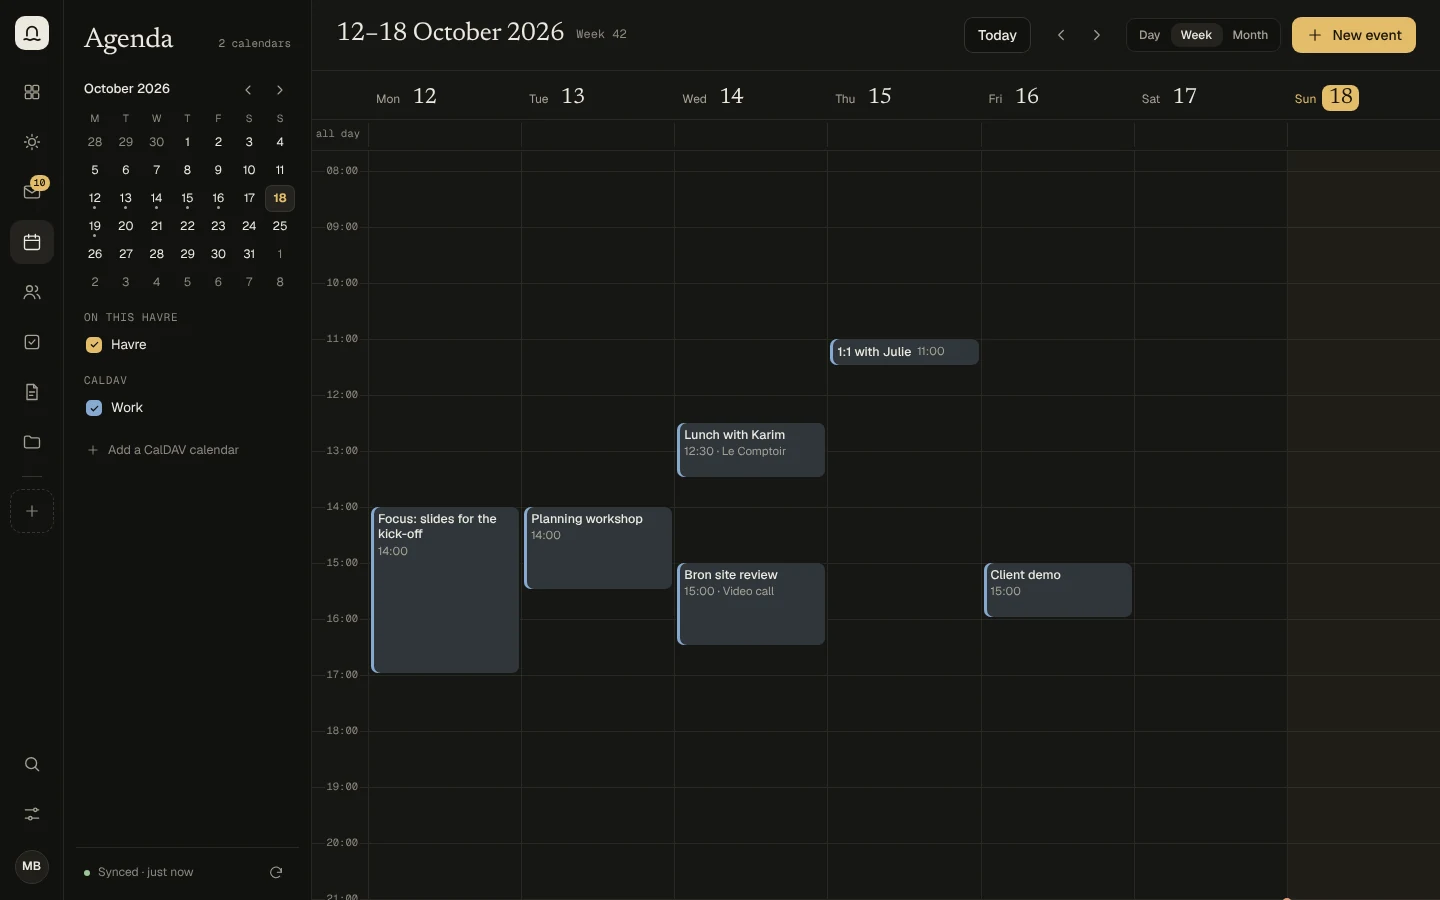
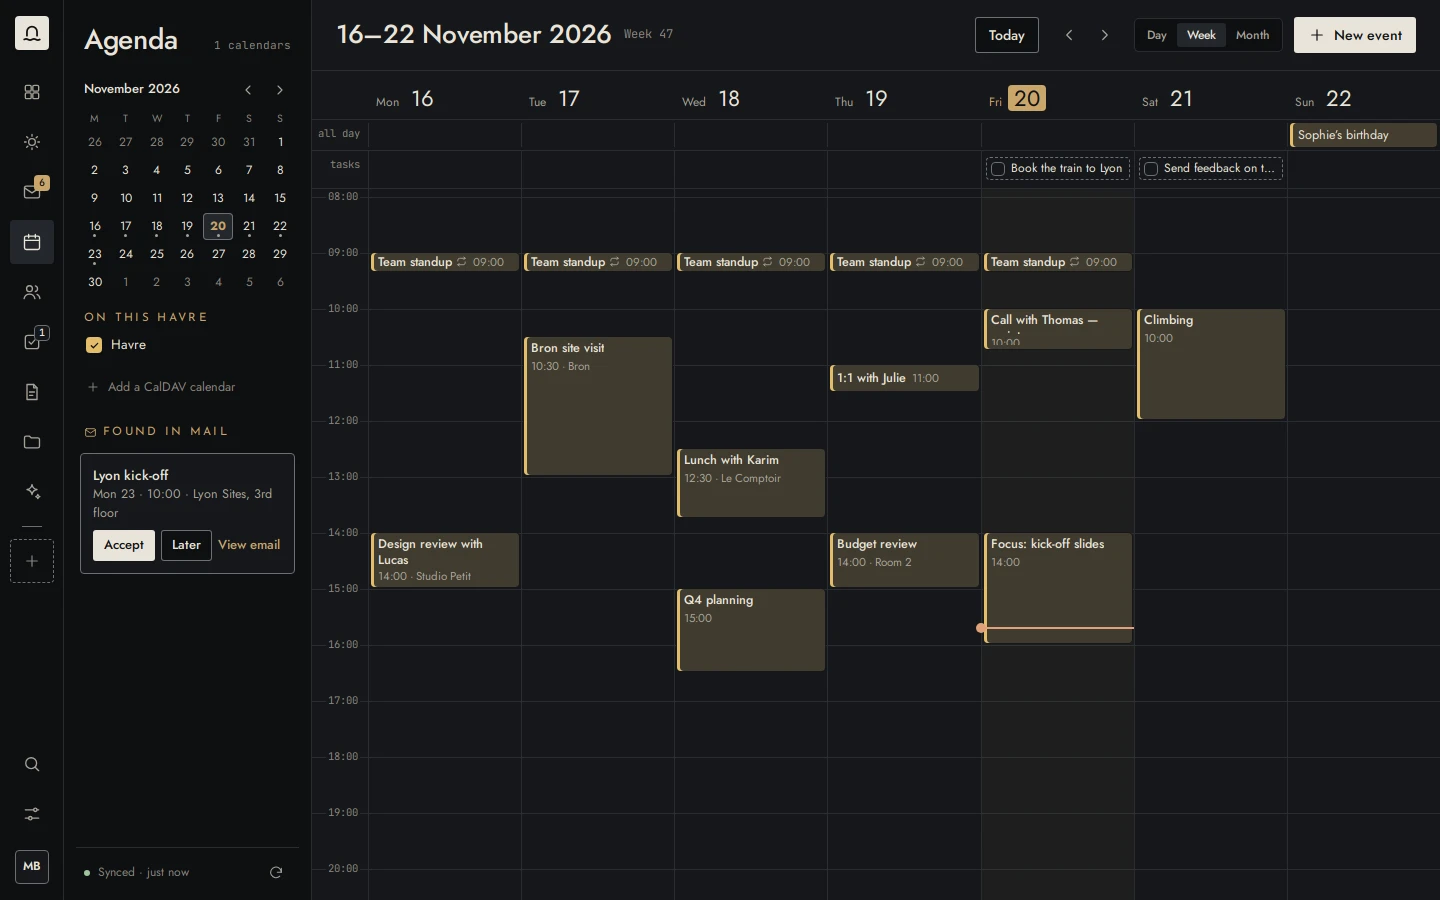
docs: retake the screenshots and show every app
New screenshots of Mail, Today, Agenda and Ctrl+K, and new ones of People, Tasks, Notes, Files, the AI assistant and the phone layout, all with made-up data. The README shows them in a grid.

diff --git a/README.md b/README.md
@@ -17,7 +17,7 @@
 
 <picture>
   <source media="(prefers-color-scheme: light)" srcset="docs/assets/screenshots/mail-light.webp">
-  <img src="docs/assets/screenshots/mail-dark.webp" alt="Havre Mail: the inbox, grouped by day, with a message open">
+  <img src="docs/assets/screenshots/mail-dark.webp" alt="Havre Mail: the inbox, grouped by day, with a meeting invitation open">
 </picture>
 
 </div>
@@ -82,16 +82,38 @@ calendar providers, and loads nothing from third-party servers.
 
 <table>
   <tr>
-    <td width="33%"><img src="docs/assets/screenshots/agenda.webp" alt="Agenda: the week view with events from several calendars"></td>
-    <td width="33%"><img src="docs/assets/screenshots/today.webp" alt="Today: the day's overview and unread mail"></td>
-    <td width="33%"><img src="docs/assets/screenshots/command-palette.webp" alt="Ctrl+K: people, tasks and mail found as you type"></td>
+    <td width="33%"><img src="docs/assets/screenshots/today.webp" alt="Today: the day's meetings, a short brief, tasks due and unread mail"></td>
+    <td width="33%"><img src="docs/assets/screenshots/agenda.webp" alt="Agenda: the week view, with an invitation found in mail"></td>
+    <td width="33%"><img src="docs/assets/screenshots/people.webp" alt="People: a contact's page with your mail, files, tasks and notes together"></td>
   </tr>
   <tr>
-    <td align="center"><sub>Agenda</sub></td>
     <td align="center"><sub>Today</sub></td>
+    <td align="center"><sub>Agenda</sub></td>
+    <td align="center"><sub>People</sub></td>
+  </tr>
+  <tr>
+    <td width="33%"><img src="docs/assets/screenshots/tasks.webp" alt="Tasks: upcoming to-dos with dates and the people they are about"></td>
+    <td width="33%"><img src="docs/assets/screenshots/notes.webp" alt="Notes: a Markdown note for a meeting, with to-dos that become tasks"></td>
+    <td width="33%"><img src="docs/assets/screenshots/files.webp" alt="Files: every attachment from your mail, versions grouped, with a preview"></td>
+  </tr>
+  <tr>
+    <td align="center"><sub>Tasks</sub></td>
+    <td align="center"><sub>Notes</sub></td>
+    <td align="center"><sub>Files</sub></td>
+  </tr>
+  <tr>
+    <td width="33%"><img src="docs/assets/screenshots/command-palette.webp" alt="Ctrl+K: people, notes, files and mail found as you type"></td>
+    <td width="33%"><img src="docs/assets/screenshots/ai.webp" alt="AI: the assistant answers from your notes and tasks and prepares actions you confirm"></td>
+    <td width="33%" align="center"><img src="docs/assets/screenshots/phone.webp" alt="Havre on a phone: the Today page as an installed web app" width="62%"></td>
+  </tr>
+  <tr>
     <td align="center"><sub>Ctrl+K</sub></td>
+    <td align="center"><sub>AI, with your click</sub></td>
+    <td align="center"><sub>On your phone</sub></td>
   </tr>
 </table>
+
+<sub>Screenshots use made-up people and data.</sub>
 
 ## Getting started
 
